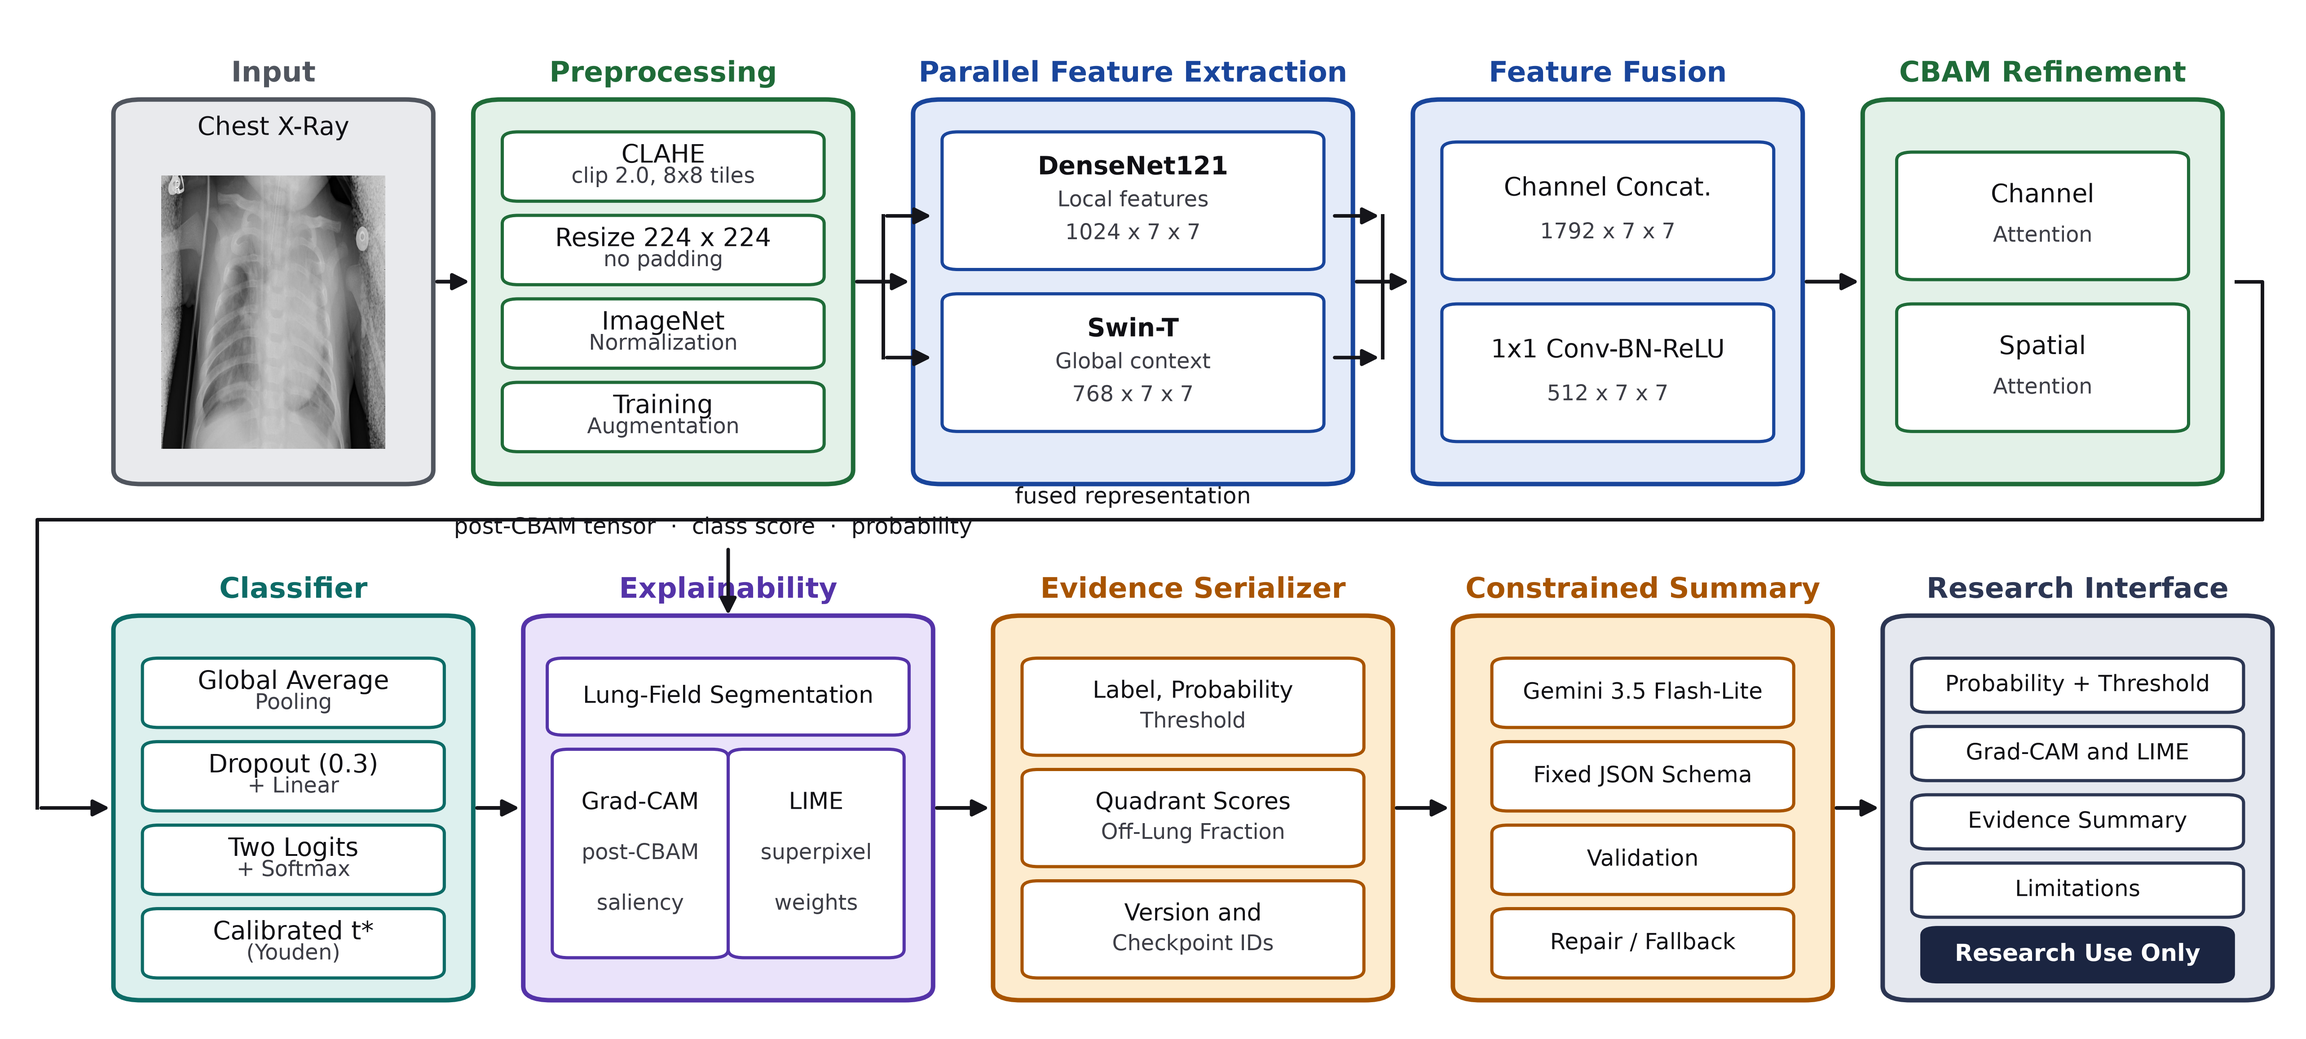
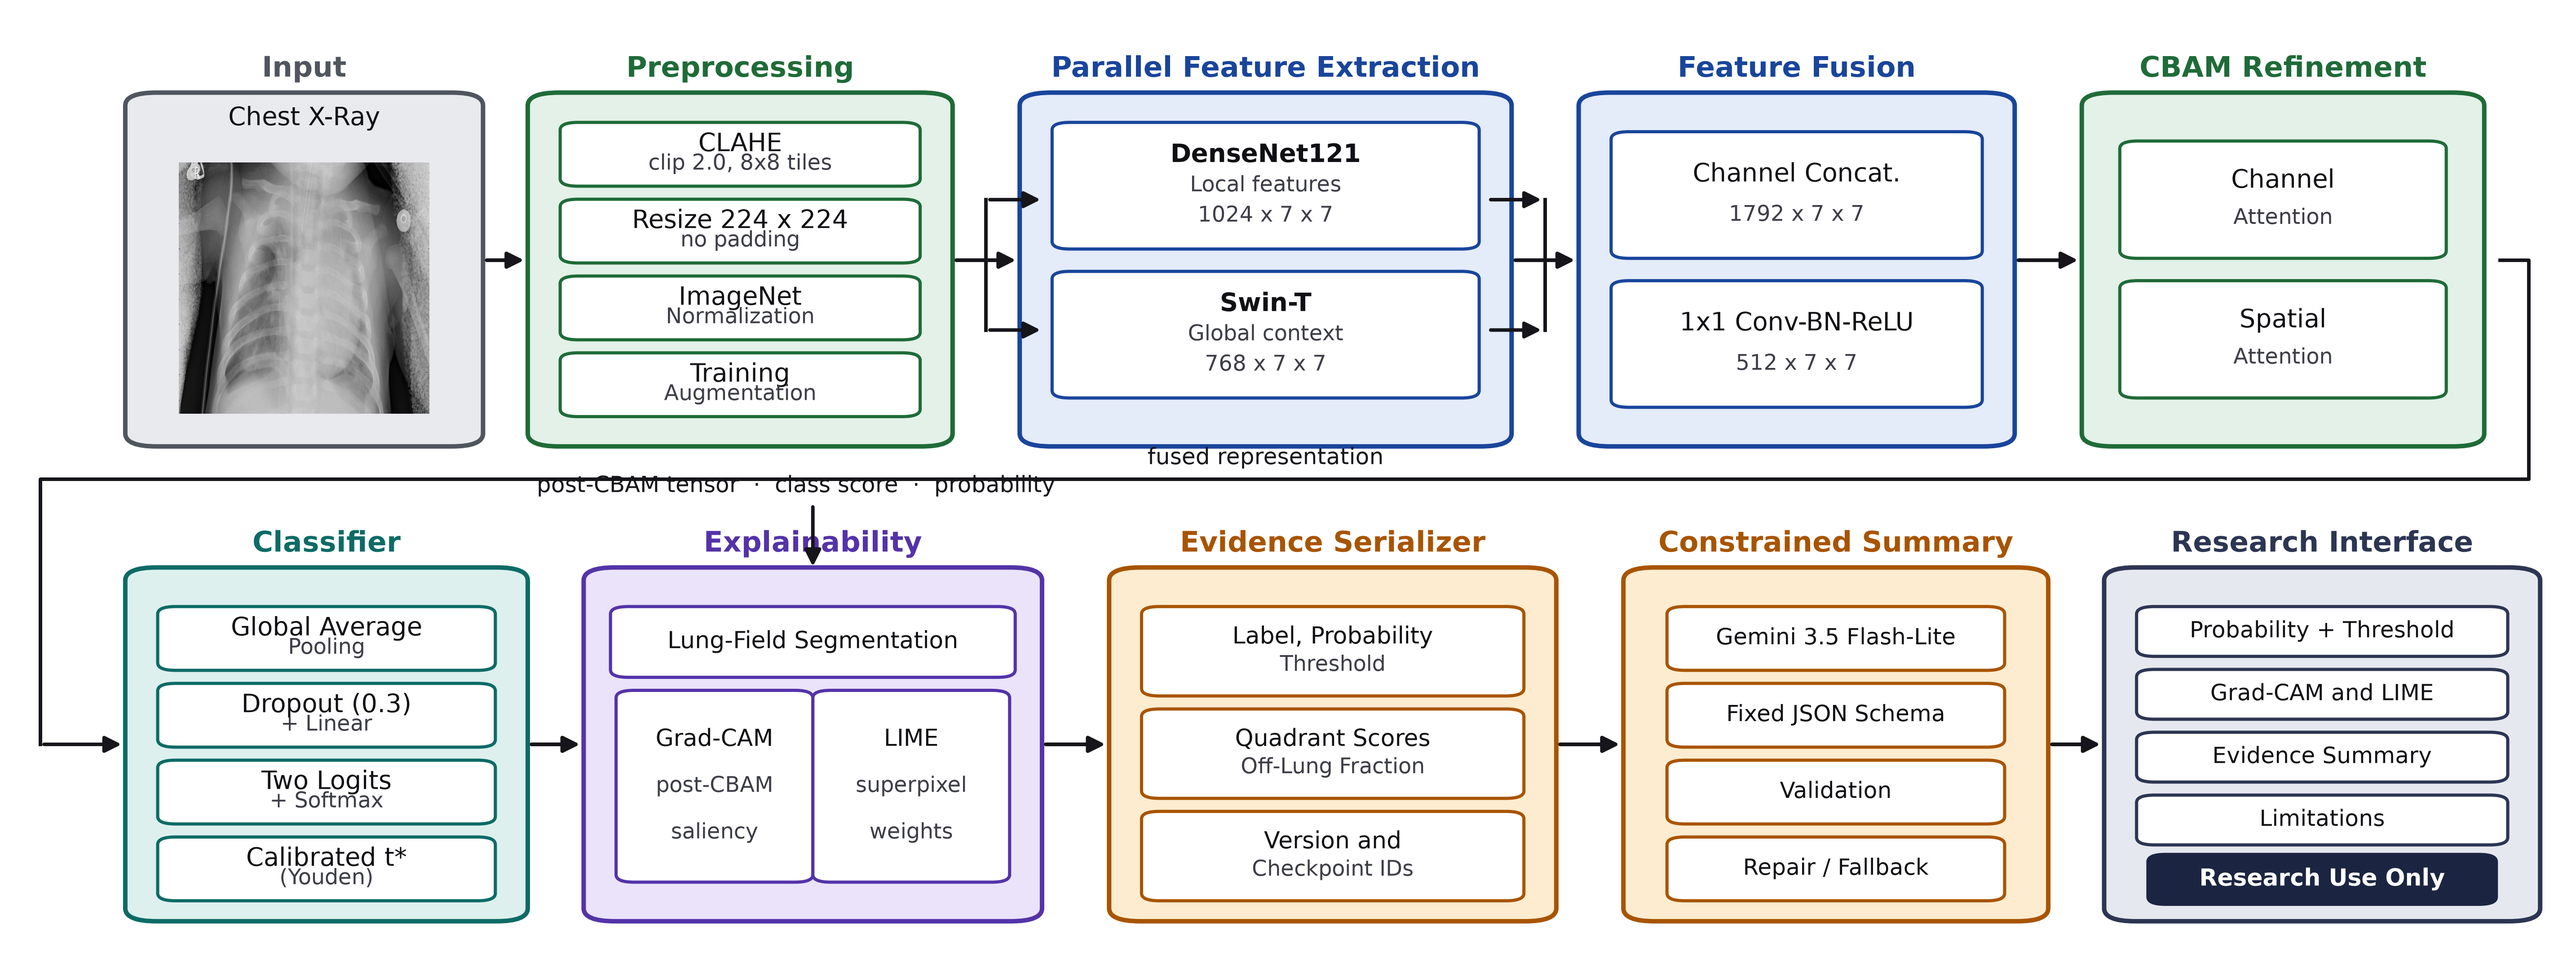
paper: compress implementation notes, drop Table II, flatten architecture figure

diff --git a/Rad-Intel paper/main.tex b/Rad-Intel paper/main.tex
@@ -233,27 +233,10 @@ The validator rejects missing or additional keys, non-string values, unsupported
 \subsection{Training Configuration}
 The model is implemented in PyTorch using \texttt{torchvision} and \texttt{timm}. Training uses AdamW \cite{loshchilov2019adamw} with cosine annealing, a batch size of 32, weight decay $10^{-4}$, and a maximum of 20 epochs. Training proceeds in two phases. The fusion, CBAM, and classification layers are first trained for eight epochs with both pretrained branches frozen, reading feature maps extracted once and cached. The complete network is then unfrozen and fine-tuned end to end for up to twelve epochs with discriminative learning rates, $10^{-4}$ for the new layers and $10^{-5}$ for the backbones, at a reduced batch size of 12 to fit the activations of both branches. Augmentation applies in the second phase only, since the cached features of the first are computed under deterministic preprocessing. Validation area under the receiver operating characteristic curve (AUROC) selects the checkpoint in both phases, with early stopping at a patience of five epochs. Results below are from single runs at seed 42; the prespecified seed set (42, 52, 62, 72, and 82) for repeated runs is not yet complete.
 
-\begin{table}[t]
-\centering
-\caption{Controlled comparison configurations.}
-\label{tab:baselines}
-\scriptsize
-\setlength{\tabcolsep}{3pt}
-\begin{tabular}{L{2.2cm}L{4.4cm}}
-\toprule
-Configuration & Purpose \\
-\midrule
-DenseNet121 & CNN-only transfer-learning baseline \\
-Swin-T & Transformer-only baseline \\
-ResNet50 & Residual-CNN baseline \\
-Fusion without CBAM & Isolates post-fusion attention \\
-Complete classifier & DenseNet121--Swin-T fusion with CBAM \\
-\bottomrule
-\end{tabular}
-\end{table}
+
 
 \subsection{Comparison Protocol}
-Every configuration in Table~\ref{tab:baselines} shares the same partitions, preprocessing, augmentation policy, loss, checkpoint rule, threshold procedure and budget, so each row differs from the others only in architecture. Explainability and language generation run after classification and do not alter the class probability.
+Every configuration shares the same partitions, preprocessing, augmentation policy, loss, checkpoint rule, threshold procedure and budget, so each row differs from the others only in architecture. Explainability and language generation run after classification and do not alter the class probability.
 
 \subsection{Metrics and Reproducibility}
 Classification is scored with AUROC, area under the precision--recall curve,
@@ -288,16 +271,17 @@ case is also marked for any statement that could be read as a diagnosis.
 The review tests whether the output is defensible to a reader with clinical
 training; it is not a reference standard for the labels.
 
-Reproducibility records include the dataset version, split manifest, file
-hashes, source commit, environment lock file, library and CUDA versions,
-hardware, seeds, checkpoint hashes, preprocessing parameters, threshold,
-Grad-CAM target, LIME configuration, serializer and schema versions, prompt
-hash, model identifier and API access date.
+Reproducibility records cover the dataset version and split manifest, source
+commit and environment lock file, hardware, seeds and checkpoint hashes,
+preprocessing parameters and threshold, Grad-CAM target and LIME
+configuration, and the serializer, schema, prompt and model identifiers.
 
 \section{Results}
 \label{sec:results}
-Results cover all five configurations of Table~\ref{tab:baselines} under the
-protocol fixed in Section~\ref{sec:setup}. Every configuration was trained
+Results cover five configurations under the protocol fixed in
+Section~\ref{sec:setup}: DenseNet121, Swin-T and ResNet50 as single-branch
+baselines, the DenseNet121--Swin-T fusion without CBAM as the ablation, and
+the complete classifier. Every configuration was trained
 once, at seed 42, and evaluated on the held-out 624-image test partition.
 Single-run results cannot separate an architectural effect from seed
 variation, and the margins reported below are small enough that this
@@ -306,18 +290,13 @@ set remain outstanding, so no entry below carries a confidence interval
 derived from them.
 
 \subsection{Implementation Details}
-Training was performed on a single NVIDIA T4. Inference and explanation figures in
-this section were measured on an Apple M-series CPU under Python 3.14.0,
-PyTorch 2.14.1, \texttt{torchvision} 0.29.1, and \texttt{timm} 1.0.30, with
-the environment lock file recorded in Section~\ref{sec:setup}. The complete
-classifier contains 35{,}425{,}632 trainable parameters, against 6{,}955{,}906
-for DenseNet121 and 27{,}520{,}892 for Swin-T in isolation; removing CBAM
-leaves 35{,}392{,}764, so the attention module accounts for 32{,}868
-parameters, under $0.1\%$ of the total. The ResNet50 baseline contains 23{,}512{,}130 parameters. A single
-run took 36 to 49 minutes depending on the configuration, roughly six minutes
-of which is the one-off feature extraction that phase 1 caches; the five runs
-reported here total about 3.5 GPU-hours. A full sweep over the prespecified
-seed set would cost five times that.
+Training used a single NVIDIA T4; inference and explanation figures were
+measured on an Apple M-series CPU under PyTorch 2.14.1. The complete
+classifier has $35.43$M trainable parameters against $6.96$M for
+DenseNet121, $27.52$M for Swin-T and $23.51$M for ResNet50; removing CBAM
+leaves $35.39$M, so the attention module accounts for $32{,}868$ parameters,
+under $0.1\%$ of the total. Runs took 36--49 minutes each, about 3.5
+GPU-hours for the five reported here.
 
 \subsection{Classification Performance and Ablation}
 Table~\ref{tab:main} carries the primary comparison and the ablation in one
@@ -497,36 +476,27 @@ Mean latency (s)             & 7.9 & 0.02 \\
 \end{tabular}
 \end{table}
 
-Three implementation findings bear on how these maps should be read, each
-settled against an occlusion-sensitivity reference in which every
+Two implementation details decide whether these maps mean anything, and both
+were settled against an occlusion-sensitivity reference in which every
 $32\times32$ patch is blanked in turn and the drop in predicted probability
-recorded.
+recorded. The target tensor is not a neutral choice: attributing to a
+convolution inside the terminal block rather than to the block output cost
+DenseNet121 $0.04$ of deletion AUC and ResNet50 $0.08$ of agreement, and for
+the complete classifier, hooking the spatial-attention convolution inside
+CBAM captures a single-channel attention mask instead of the refined tensor,
+dropping sample peaks inside the lung fields from six of six to two. Layout
+matters more still. The Swin branch emits channels-last activations while
+the attribution library assumes channels-first; read wrongly, the maps
+correlated $r=-0.12$ with the reference, highlighting regions the model
+demonstrably did not use, and a layout adapter moved the same configuration
+to $r=+0.31$. A negative correlation is the only reliable signal of such a
+bug, because the maps stay visually plausible throughout.
 
-The target tensor is not a neutral choice. For DenseNet121, attaching
-Grad-CAM to the final $1024$-channel block output instead of to the last
-convolution inside the terminal dense layer, which emits only $32$
-growth-rate channels, lowered the deletion AUC from $0.723$ to $0.683$. For
-ResNet50, targeting the whole terminal block instead of its last convolution
-raised agreement from $r=0.23$ to $r=0.31$, since that convolution's output
-has yet to pass through the residual addition. For the complete classifier,
-hooking the spatial-attention convolution inside CBAM captures a
-single-channel attention mask, not the refined tensor: only two of six
-sample peaks then fell inside the lung fields, against six of six once the
-module output was targeted.
-
-A layout mismatch can invert an attribution outright. The Swin branch emits
-channels-last activations and the attribution library assumes
-channels-first; read in the wrong layout the maps correlated $r=-0.12$ with
-the reference, highlighting regions the model demonstrably did not use. A
-layout adapter moved the same configuration to $r=+0.31$. A negative
-correlation is the only reliable signal of such a bug, since the maps stay
-visually plausible throughout.
-
-With all corrected, agreement is positive everywhere but weaker for the
-fused models: $r=0.27$ to $0.31$ for the baselines against $r=0.10$ for the
-complete classifier and $r=0.04$ for its ablation. Attribution through a
-fused representation is harder, since the gradient at the fusion point mixes
-two backbones with different inductive biases. The fused models classify
+With both corrected, agreement is positive everywhere but weaker for the
+fused models: $r=0.27$--$0.31$ for the baselines against $r=0.10$ and
+$r=0.04$ for the two fused configurations. Attribution through a fused
+representation is harder, since the gradient at the fusion point mixes two
+backbones with different inductive biases, so the fused models classify
 better and explain less faithfully.
 
 Before masking, between $21\%$ and $48\%$ of saliency mass fell outside the

diff --git a/scripts/make_architecture.py b/scripts/make_architecture.py
@@ -25,7 +25,7 @@ C = {"grey":("#50555e","#e9eaed"), "green":("#1f6b38","#e3f1e8"),
 
 FS_TITLE, FS_MAIN, FS_SUB, FS_NOTE = 15, 13.5, 11.5, 12
 
-fig, ax = plt.subplots(figsize=(17.0, 7.6))
+fig, ax = plt.subplots(figsize=(19.0, 7.0))
 ax.set_xlim(-4, 110); ax.set_ylim(0, 100); ax.axis("off")
 fig.patch.set_facecolor("white")
 
